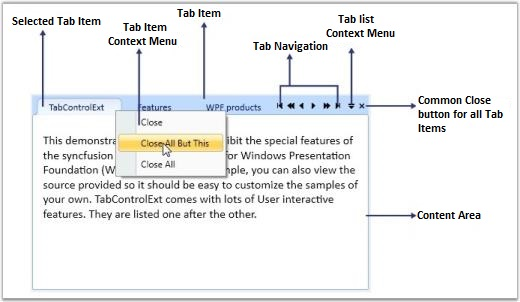
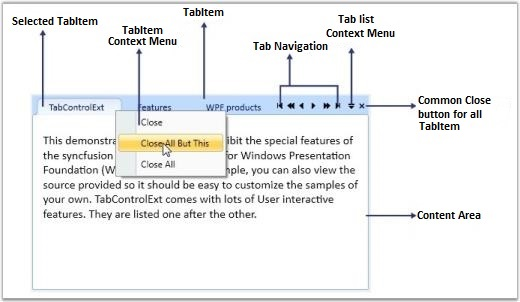
WPF-48386-Modified the getting started documentation for TabControl

diff --git a/wpf/TabExt/Getting-Started.md b/wpf/TabExt/Getting-Started.md
@@ -1,13 +1,13 @@
 ---
 layout: post
 title: Getting Started with WPF TabControl | Syncfusion
-description: This section explains about how to add WPF TabControl in application and its structure and basic feature.
+description: Learn here about getting started with Syncfusion WPF TabControl and its basic features and structure.
 platform: wpf
 control: TabControl
 documentation: ug
 ---
 
-# Getting Started
+# Getting Started with TabControl
 
 This section explains how to create WPF TabControl, and its structure.
 
@@ -116,7 +116,7 @@ grid.Children.Add(tabControlExt);
 
 ## Adding TabItem
 
-The [TabControl](https://help.syncfusion.com/cr/wpf/Syncfusion.Tools.Wpf~Syncfusion.Windows.Tools.Controls.TabControlExt.html) allows the user to adding new tab item into its control. You can set header to each tab items by using [Header](https://docs.microsoft.com/en-us/dotnet/api/system.windows.controls.headeredcontentcontrol.header?redirectedfrom=MSDN&view=netframework-4.8#System_Windows_Controls_HeaderedContentControl_Header) property and add the content into tab items in TabControl.
+The [TabControl](https://help.syncfusion.com/cr/wpf/Syncfusion.Tools.Wpf~Syncfusion.Windows.Tools.Controls.TabControlExt.html) allows the user to adding new tabitem into its control. You can set header to each tabitems by using [Header](https://docs.microsoft.com/en-us/dotnet/api/system.windows.controls.headeredcontentcontrol.header?redirectedfrom=MSDN&view=netframework-4.8#System_Windows_Controls_HeaderedContentControl_Header) property and add the content into tabitems in TabControl.
 
 {% tabs %}
 
@@ -138,12 +138,12 @@ The [TabControl](https://help.syncfusion.com/cr/wpf/Syncfusion.Tools.Wpf~Syncfus
 
 {% highlight C# %}
 
-// Create an instances of tab items
+// Create an instances of tabitems
 TabItemExt tabItemExt = new TabItemExt();
 TabItemExt tabItemExt1 = new TabItemExt();
 TabItemExt tabItemExt2 = new TabItemExt();
 
-//Adding header into tab items
+//Adding header into tabitems
 tabItemExt.Header = "tabItem1";
 tabItemExt1.Header = "tabItem2";
 tabItemExt2.Header = "tabItem3";
@@ -163,7 +163,7 @@ tabItemExt.Content = textBlock;
 tabItemExt1.Content = textBlock1;
 tabItemExt2.Content = textBlock2;
 
-//Add the tab items into the tabcontrol
+//Add the tabitems into the tabcontrol
 tabControlExt.Items.Add(tabItemExt);
 tabControlExt.Items.Add(tabItemExt1);
 tabControlExt.Items.Add(tabItemExt2);
@@ -172,11 +172,11 @@ tabControlExt.Items.Add(tabItemExt2);
 
 {% endtabs %}
 
-![Adding tab items into WPF TabControl](Getting-Started_images/wpf-tabcontrol-addtabitem.png)
+![Adding tabitems into WPF TabControl](Getting-Started_images/wpf-tabcontrol-addtabitem.png)
 
-## Positioning Tab Items
+## Placement of TabItem's
 
-You can align the tab item position to all four sides of TabControl by using [TabStripPlacement](https://help.syncfusion.com/cr/wpf/Syncfusion.Tools.Wpf~Syncfusion.Windows.Tools.Controls.TabControlSettings~TabStripPlacement.html) property.
+You can align the tabitem position to all four sides of TabControl by using [TabStripPlacement](https://help.syncfusion.com/cr/wpf/Syncfusion.Tools.Wpf~Syncfusion.Windows.Tools.Controls.TabControlSettings~TabStripPlacement.html) property.
 
 {% tabs %}
 
@@ -208,7 +208,7 @@ tabControlExt.TabStripPlacement = Dock.Bottom;
 
 ## Selecting TabItem
 
-You can select the particular or current tab item in TabControl by setting the [IsSelected](https://docs.microsoft.com/en-us/dotnet/api/system.windows.controls.tabitem.isselected?redirectedfrom=MSDN&view=netframework-4.8#System_Windows_Controls_TabItem_IsSelected) property to `true`.
+You can select the particular tabitem in TabControl by setting the [IsSelected](https://docs.microsoft.com/en-us/dotnet/api/system.windows.controls.tabitem.isselected?redirectedfrom=MSDN&view=netframework-4.8#System_Windows_Controls_TabItem_IsSelected) property to `true`.
 
 {% tabs %}
 
@@ -230,11 +230,11 @@ tabItemExt2.IsSelected = true;
 
 {% endtabs %}
 
-![Select a current tab item in WPF TabControlExt](Getting-Started_images/wpf-tabcontrol-selectedtab.png)
+![Select a current tabitem in WPF TabControlExt](Getting-Started_images/wpf-tabcontrol-selectedtab.png)
 
 ### Tab Selection event
 
-The TabControl notifies the selected tab item changes through [SelectedItemChangedEvent](https://help.syncfusion.com/cr/wpf/Syncfusion.Tools.Wpf~Syncfusion.Windows.Tools.Controls.TabControlExt~SelectedItemChangedEvent_EV.html) event. You can use the `OldSelectedItem` and `NewSelectedItem` property to get the old and new selected tab item in `SelectedItemChangedEvent` event.
+The TabControl notifies user change the selected tabitem through [SelectedItemChangedEvent](https://help.syncfusion.com/cr/wpf/Syncfusion.Tools.Wpf~Syncfusion.Windows.Tools.Controls.TabControlExt~SelectedItemChangedEvent_EV.html) event. You can use the `OldSelectedItem` and `NewSelectedItem` property to get the old and new selected tabitem in `SelectedItemChangedEvent` event.
 
 {% tabs %}
 
@@ -261,7 +261,7 @@ private void TabControlExt_SelectedItemChangedEvent(object sender, SelectedItemC
 
 ## Enable or disable close button
 
-The [CanClose](https://help.syncfusion.com/cr/wpf/Syncfusion.Tools.Wpf~Syncfusion.Windows.Tools.Controls.TabItemExt~CanClose.html) property is used for decides whether the close button enable or disable in tab items. When the `CanClose` property is set to `False`, the corresponding tab item will be disabled. The default value is `True`.
+The [TabItemExt.CanClose](https://help.syncfusion.com/cr/wpf/Syncfusion.Tools.Wpf~Syncfusion.Windows.Tools.Controls.TabItemExt~CanClose.html) property is used for decides whether the close button enable or disable in tabitems. You can show the close button as only individual tabitems or commonly for all tabitem by using [TabControlExt.CloseButtonType](https://help.syncfusion.com/cr/wpf/Syncfusion.Tools.Wpf~Syncfusion.Windows.Tools.Controls.TabControlExt~CloseButtonType.html) property in TabControl.
 
 {% tabs %}
 
@@ -282,11 +282,11 @@ tabItemExt.CanClose = false;
 
 {% endtabs %}
 
-![Disable the close button of first tab item in WPF TabControl](Getting-Started_images/wpf-tabcontrol-close.png)
+![Disable the close button of first tabitem in WPF TabControl](Getting-Started_images/wpf-tabcontrol-close.png)
 
 ## Enable or disable TabList context menu
 
-You can show the tab list context menu by setting the [ShowTabListContextMenu](https://help.syncfusion.com/cr/wpf/Syncfusion.Tools.Wpf~Syncfusion.Windows.Tools.Controls.TabControlExt~ShowTabListContextMenu.html) property to `true` in TabControl.
+You can show the tab list context menu by setting the [TabControlExt.ShowTabListContextMenu](https://help.syncfusion.com/cr/wpf/Syncfusion.Tools.Wpf~Syncfusion.Windows.Tools.Controls.TabControlExt~ShowTabListContextMenu.html) property to `true` in TabControl.
 
 {% tabs %}
 
@@ -310,17 +310,15 @@ tabControlExt.ShowTabListContextMenu = true;
 
 ![Tablist Context menu of tabitem in WPF TabControl](Getting-Started_images/wpf-tabcontrol-tablistcontextmenu.png)
 
-N> If you set `ShowTabListContextMenu` property to `false`, tab list context menu will not show in TabControl.
-
 ## Enable or disable tab navigation bar
 
-The [TabScrollButtonVisibility](https://help.syncfusion.com/cr/wpf/Syncfusion.Tools.Wpf~Syncfusion.Windows.Tools.Controls.TabControlExt~TabScrollButtonVisibility.html) property is used for decides whether the tab navigation bar enable or disable in TabControl. If you set `TabScrollButtonVisibility` property to `Visible`, the navigation bar will be enabled in TabControl. If you set `TabScrollButtonVisibility` property to `Hidden`, the navigation bar will be enabled in TabControl.
+The [TabControlExt.TabScrollButtonVisibility](https://help.syncfusion.com/cr/wpf/Syncfusion.Tools.Wpf~Syncfusion.Windows.Tools.Controls.TabControlExt~TabScrollButtonVisibility.html) property is used for decides whether the tab navigation bar enable or disable in TabControl. You can show different tab navigation style in TabControl by using [TabScrollStyle](https://help.syncfusion.com/cr/wpf/Syncfusion.Tools.Wpf~Syncfusion.Windows.Tools.Controls.TabControlExt~TabScrollStyle.html) property.
 
 {% tabs %}
 
 {% highlight XAML %}
 
-<syncfusion:TabControlExt Name="tabControl" Height="100" Width="280" TabScrollButtonVisibility="Visible">
+<syncfusion:TabControlExt Name="tabControl" Height="100" Width="280" TabScrollStyle="Extended" TabScrollButtonVisibility="Visible">
     <syncfusion:TabItemExt Name="tabItemExt1" Header="tabItem1" />
     <syncfusion:TabItemExt Name="tabItemExt2" Header="tabItem2" />
 </syncfusion:TabControlExt>
@@ -329,6 +327,7 @@ The [TabScrollButtonVisibility](https://help.syncfusion.com/cr/wpf/Syncfusion.To
 
 {% highlight C# %}
 
+tabControlExt.TabScrollStyle = TabScrollStyle.Extended;
 tabControlExt.TabScrollButtonVisibility = TabScrollButtonVisibility.Visible;
 
 {% endhighlight %}
@@ -339,7 +338,7 @@ tabControlExt.TabScrollButtonVisibility = TabScrollButtonVisibility.Visible;
 
 ## Enable or disable built-in context menu
 
-You can show the built-in context menu of the tab item's by setting the [TabControlExt.ShowTabItemContextMenu](https://help.syncfusion.com/cr/wpf/Syncfusion.Tools.Wpf~Syncfusion.Windows.Tools.Controls.TabControlExt~ShowTabItemContextMenu.html) property to `true` in TabControl.
+You can show the built-in context menu of the tabitem's by setting the [TabControlExt.ShowTabItemContextMenu](https://help.syncfusion.com/cr/wpf/Syncfusion.Tools.Wpf~Syncfusion.Windows.Tools.Controls.TabControlExt~ShowTabItemContextMenu.html) property to `true` in TabControl.
 
 {% tabs %}
 
